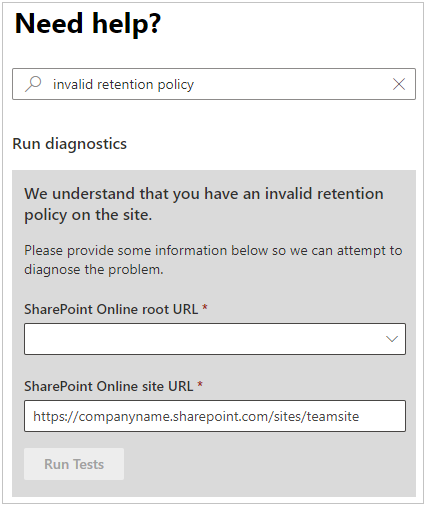
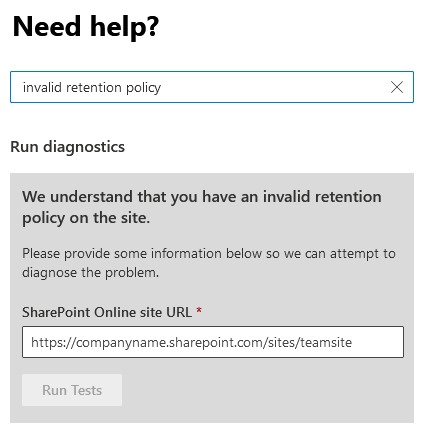
CI-145290 - replacing screenshot, removing outdated phrase

diff --git a/SharePoint/SharePointOnline/sites/compliance-policy-blocking-site-deletion.md b/SharePoint/SharePointOnline/sites/compliance-policy-blocking-site-deletion.md
@@ -34,7 +34,7 @@ When you try to delete a SharePoint site, the following message appears:
 
 There are several reasons for this error to occur:
 
-- There might be a compliance policy which is currently invalid.
+- There might be a compliance policy that is currently invalid.
 - A valid policy can be present, and the SharePoint site shouldn't be deleted. In this situation, contact your administrator to determine whether you can exclude or remove this site from the policy.
 
 ## Resolution
@@ -58,7 +58,7 @@ If you're an administrator, and you're unable to delete the site:
 
 3. In the **Briefly describe your issue** area, enter **invalid retention policy**, and then select **Enter**.
 
-4. In the Run diagnostic section, select the **SharePoint Online root URL**, type or paste the **SharePoint site URL**, and then select **Run Tests**.
+4. In the Run diagnostic section, type or paste the **SharePoint site URL**, and then select **Run Tests**.
 
    ![Run diagnostics window asking for SharePoint URL information](./media/compliance-policy-blocking-site-deletion/run-diagnostics.png)
 
